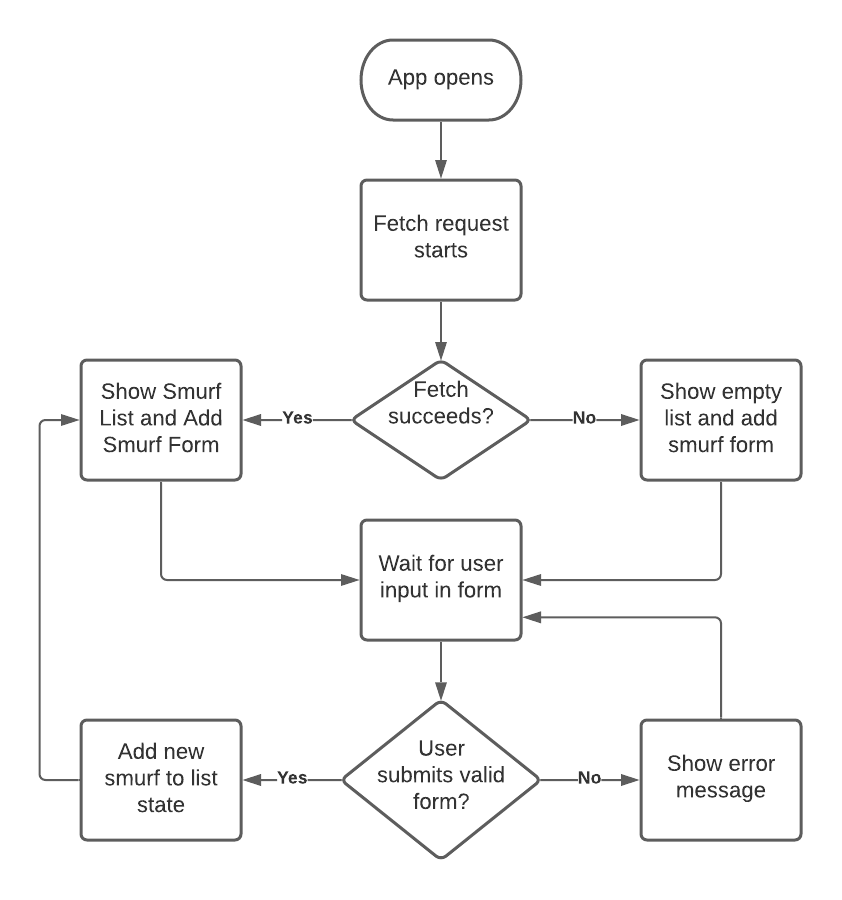
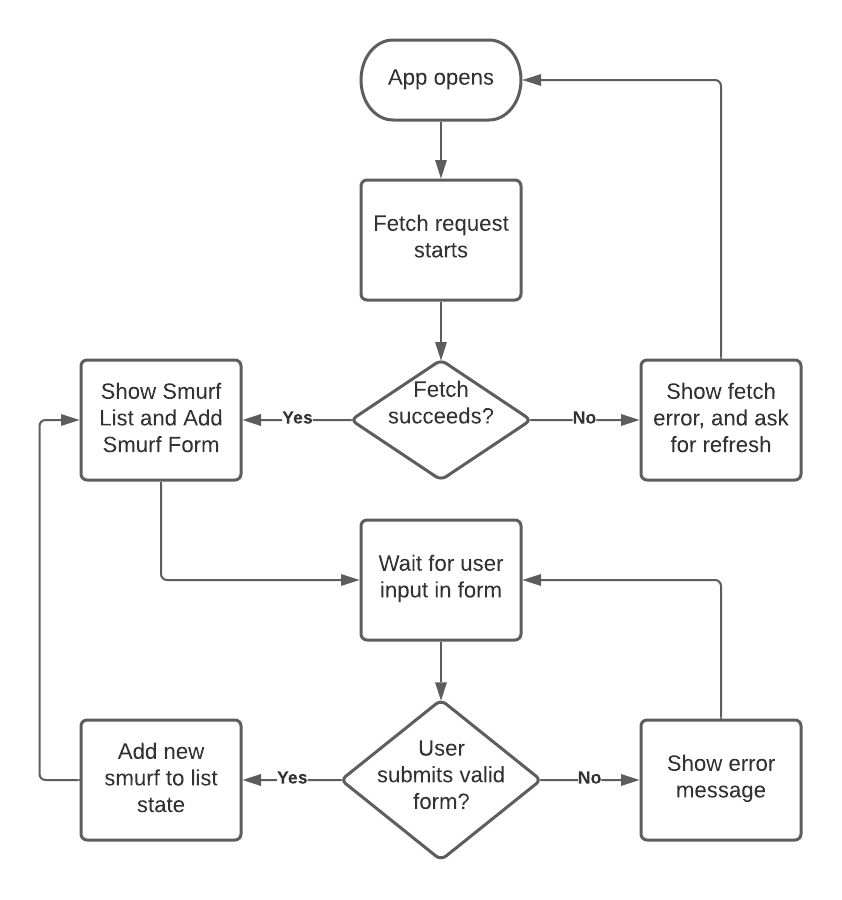
changed error message; revised flowchart

Changed region(s): [[0.772, 0.4044, 0.9264, 0.5289], [0.6176, 0.6844, 0.8337, 0.7156], [0.6176, 0.0622, 0.6485, 0.0933]]

diff --git a/src/components/SmurfList.js b/src/components/SmurfList.js
@@ -7,7 +7,7 @@ const SmurfList = (props) => {
   const { smurfArray, isLoading, fetchError } = props;
 
   if (fetchError) {
-    return <h1>Error! Could not load the list...</h1>;
+    return <h2>List Fetch Error! Please refresh!</h2>;
   }
 
   if (isLoading) {
